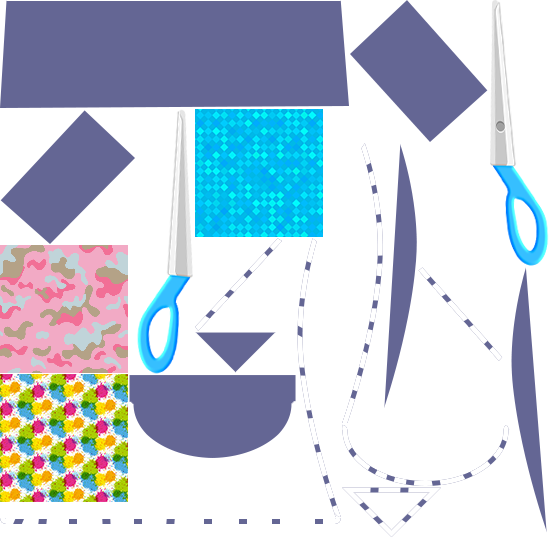
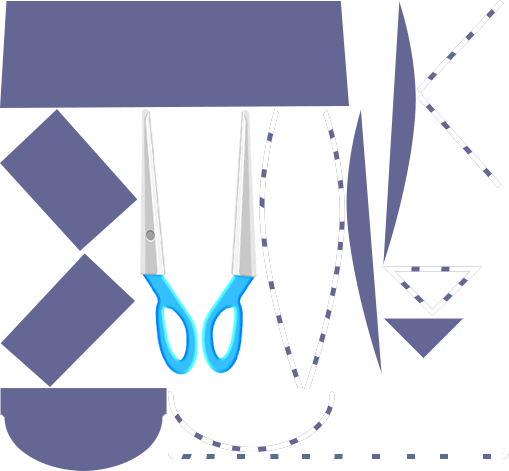
更换贴图

diff --git a/3DDressUp_Laya2.9.0/3DDressUp_Laya2.9.0/bin/js/bundle.js b/3DDressUp_Laya2.9.0/3DDressUp_Laya2.9.0/bin/js/bundle.js
@@ -4958,15 +4958,15 @@
             texture2D: {
                 Figure1: {
                     url: 'Game/UI/MakeClothes/figure_01.png',
-                    texture2d: null,
+                    texture2D: null,
                 },
                 Figure2: {
                     url: 'Game/UI/MakeClothes/figure_02.png',
-                    texture2d: null,
+                    texture2D: null,
                 },
                 Figure3: {
                     url: 'Game/UI/MakeClothes/figure_03.png',
-                    texture2d: null,
+                    texture2D: null,
                 },
             },
             scene2D: {
@@ -5434,11 +5434,7 @@
                 for (let index = 0; index < this._ImgVar('FigureParent').numChildren; index++) {
                     const element = this._ImgVar('FigureParent').getChildAt(index);
                     this._btnUp(element, () => {
-                        let tex = this._ImgVar(`Figure${index + 1}`).texture;
-                        let pix = tex.getPixels(100, 100, 128, 128);
-                        let tex2d = new Laya.Texture2D();
-                        tex2d.setPixels(pix);
-                        EventAdmin._notify(_Event.addTexture2D, [index + 1]);
+                        EventAdmin._notify(_Event.addTexture2D, [this._ImgVar('Ultimately').texture.bitmap]);
                     });
                 }
             }
@@ -5446,12 +5442,11 @@
         _MakeClothes.MakeClothes = MakeClothes;
         class MakeClothes3D extends lwg3D._Scene3DBase {
             lwgOnAwake() {
-                let mt = new Laya.BlinnPhongMaterial;
             }
             lwgEventRegister() {
-                EventAdmin._register(_Event.addTexture2D, this, (index) => {
+                EventAdmin._register(_Event.addTexture2D, this, (Text2D) => {
                     let bMaterial = this._child('Hanger').meshRenderer.material;
-                    bMaterial.albedoTexture = _Res._list.texture2D[`Figure${index}`];
+                    bMaterial.albedoTexture = Text2D;
                 });
             }
         }
@@ -5524,6 +5519,10 @@
             planeStaticCollider.restitution = 0.3;
             this.mat1 = new Laya.BlinnPhongMaterial();
             Laya.Texture2D.load("res/wood.jpg", Laya.Handler.create(this, function (tex) {
+                this.mat1.albedoTexture = tex;
+                Laya.timer.once(100, this, function () {
+                    this.addBox();
+                });
             }));
         }
         addBox() {

diff --git a/3DDressUp_Laya2.9.0/3DDressUp_Laya2.9.0/src/script/Lwg/_MakeClothes.ts b/3DDressUp_Laya2.9.0/3DDressUp_Laya2.9.0/src/script/Lwg/_MakeClothes.ts
@@ -19,11 +19,10 @@ export module _MakeClothes {
             for (let index = 0; index < this._ImgVar('FigureParent').numChildren; index++) {
                 const element = this._ImgVar('FigureParent').getChildAt(index);
                 this._btnUp(element, () => {
-                    let tex = this._ImgVar(`Figure${index + 1}`).texture;
-                    let pix = tex.getPixels(100, 100, 128, 128);
-                    let tex2d = new Laya.Texture2D();
-                    tex2d.setPixels(pix);
-                    EventAdmin._notify(_Event.addTexture2D, [index + 1]);
+                    EventAdmin._notify(_Event.addTexture2D, [this._ImgVar('Ultimately').texture.bitmap]);
+                    // let Img = this._ImgVar(`Figure${index + 1}`);
+                    // let tex = Img.texture;
+                    // EventAdmin._notify(_Event.addTexture2D, [tex]);
                 })
             }
         }
@@ -32,27 +31,11 @@ export module _MakeClothes {
     export let mt: Laya.UnlitMaterial;
     export class MakeClothes3D extends lwg3D._Scene3DBase {
         lwgOnAwake(): void {
-            // let base64 = "你的base64字符串";
-            // let image: HTMLImageElement = document.createElement("img");
-            // let onImageLoaded: EventListenerOrEventListenerObject = () => {
-            //     image.removeEventListener("load", onImageLoaded);
-            //     let texture: Laya.Texture2D = new Laya.Texture2D();
-            //     // texture.setPixels(null, image,);
-            // }
-            let mt = new Laya.BlinnPhongMaterial;
-            // mt.albedoTexture = new Laya.Texture2D();
-            // console.log((this._child('Hanger').meshRenderer.material as Laya.UnlitMaterial).albedoTexture)
         }
         lwgEventRegister(): void {
-            EventAdmin._register(_Event.addTexture2D, this, (index) => {
+            EventAdmin._register(_Event.addTexture2D, this, (Text2D: Laya.Texture2D) => {
                 let bMaterial = this._child('Hanger').meshRenderer.material as Laya.BlinnPhongMaterial;
-                bMaterial.albedoTexture = _Res._list.texture2D[`Figure${index}`];
-                // bMaterial.albedoTexture
-                // bMaterial.albedoTexture = Text2D;
-
-                // TimerAdmin._frameLoop(1,this,()=>{
-                //     bMaterial.
-                // })
+                bMaterial.albedoTexture = Text2D;
             })
         }
     }

diff --git a/3DDressUp_Laya2.9.0/3DDressUp_Laya2.9.0/src/script/Lwg/LwgRecord.ts b/3DDressUp_Laya2.9.0/3DDressUp_Laya2.9.0/src/script/Lwg/LwgRecord.ts
@@ -36,6 +36,8 @@ export module record {
         'mask遮罩问题2' = '有遮罩的图片的坐标必须是整数，不能有小数，否则可能导致遮罩有一根细线的存在，可能是遮罩只会遮罩整数坐标，导致计算错误',
 
         '截屏对应源码修改' = '截屏  var htmlCanvas: Laya.HTMLCanvas = this.Owner.drawToCanvas(this.Owner.width, this.Owner.height, 0, 0);htmlCanvas.toBase64("image/png"),对应core中的源码修改，才可以上传平台，被平台识别，搜索‘ImageData’，如下:// var imgdata=/*__JS__ */new ImageData(canvasWidth,canvasHeight); //注释这一句，这句是报错的地方;   var canvx = new HTMLCanvas(true); //创建一个canvas,canvx.size(canvasWidth, canvasHeight); //设置宽高;这个和ImageData保持一致;  var ctx2dx = canvx.getContext(`2d`); //获取上下文;var imgdata = ctx2dx.getImageData(0,0,canvasWidth,canvasHeight); //获取imageData，来替代ImageData;',
+
+        '2Dtexture'='2Dtexture不需要打包，一般在unity中导出，如果在laya中也要设置不打包'
     }
     /**
      * 关于2d物理引擎

diff --git a/3DDressUp_Laya2.9.0/3DDressUp_Laya2.9.0/src/script/Lwg/Lwg.ts b/3DDressUp_Laya2.9.0/3DDressUp_Laya2.9.0/src/script/Lwg/Lwg.ts
@@ -6041,7 +6041,6 @@ export module lwg {
                         break;
 
                     case _texture2D:
-
                         //加载纹理资源
                         Laya.Texture2D.load(_texture2D[index]['url'], Laya.Handler.create(this, function (tex: Laya.Texture2D): void {
                             if (tex == null) {
@@ -6055,7 +6054,7 @@ export module lwg {
                         break;
 
                     case _material:
-                        Laya.Material.load(_material[index]['url'], Laya.Handler.create(this, (any) => {
+                        Laya.Material.load(_material[index]['url'], Laya.Handler.create(this, (any: any) => {
                             if (any == null) {
                                 console.log('XXXXXXXXXXX材质' + _material[index]['url'] + '加载失败！不会停止加载进程！', '数组下标为：', index, 'XXXXXXXXXXX');
                             } else {

diff --git a/3DDressUp_Laya2.9.0/3DDressUp_Laya2.9.0/src/script/Lwg/_PreLoad.ts b/3DDressUp_Laya2.9.0/3DDressUp_Laya2.9.0/src/script/Lwg/_PreLoad.ts
@@ -77,15 +77,15 @@ export module _Res {
         texture2D: {
             Figure1: {
                 url: 'Game/UI/MakeClothes/figure_01.png',
-                texture2d: null as Laya.Texture2D,
+                texture2D: null as Laya.Texture2D,
             },
             Figure2: {
                 url: 'Game/UI/MakeClothes/figure_02.png',
-                texture2d: null as Laya.Texture2D,
+                texture2D: null as Laya.Texture2D,
             },
             Figure3: {
                 url: 'Game/UI/MakeClothes/figure_03.png',
-                texture2d: null as Laya.Texture2D,
+                texture2D: null as Laya.Texture2D,
             },
         },
         /**通过直接获取场景的显示和打开，和scene关联，实现，先加载，然后直接切换*/

diff --git a/3DDressUp_Laya2.9.0/3DDressUp_Laya2.9.0/src/script/GameUI.ts b/3DDressUp_Laya2.9.0/3DDressUp_Laya2.9.0/src/script/GameUI.ts
@@ -54,7 +54,11 @@ export default class GameUI extends ui.test.TestSceneUI {
 		this.mat1 = new Laya.BlinnPhongMaterial();
 		//加载纹理资源
 		Laya.Texture2D.load("res/wood.jpg", Laya.Handler.create(this, function(tex:Laya.Texture2D):void {
-		
+			this.mat1.albedoTexture = tex;
+			//添加一个球体
+			Laya.timer.once(100, this, function():void {
+				this.addBox();
+			});
 		}));
 		
     }
